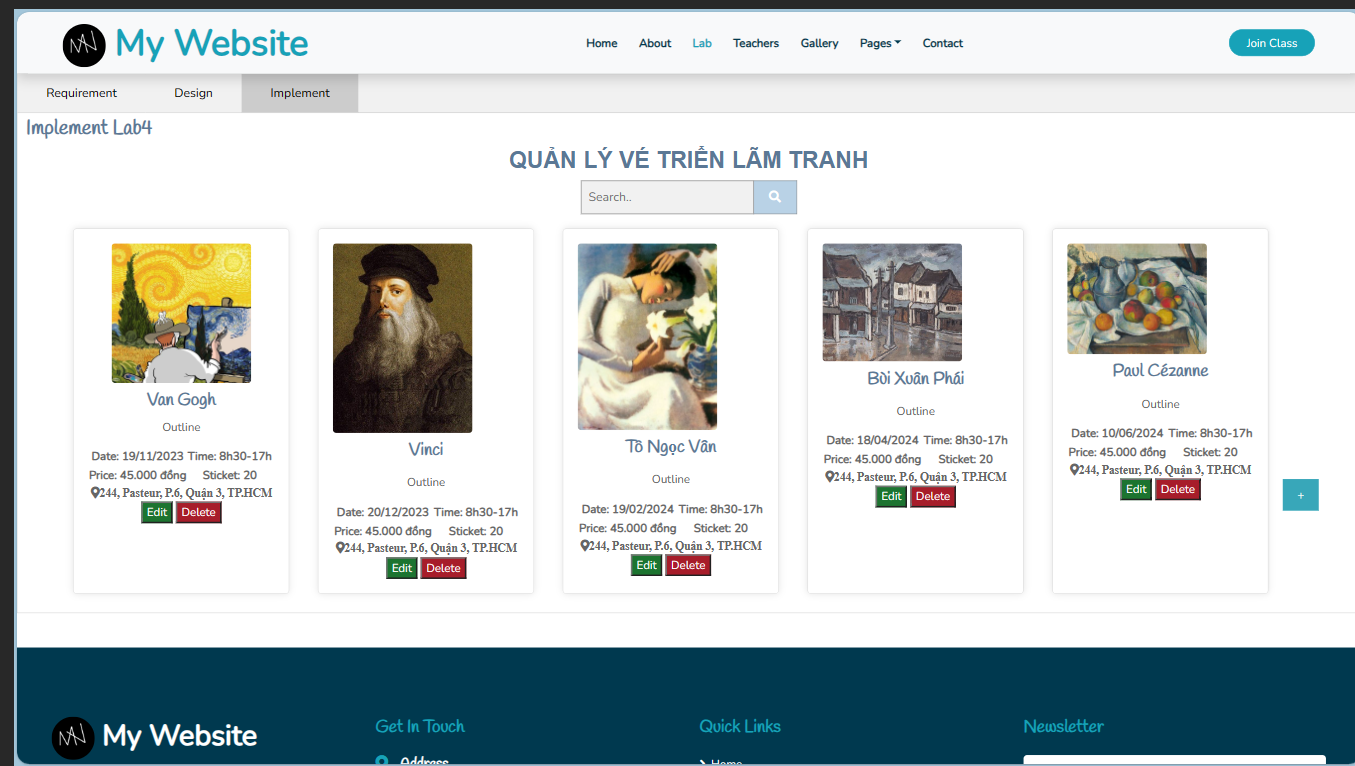
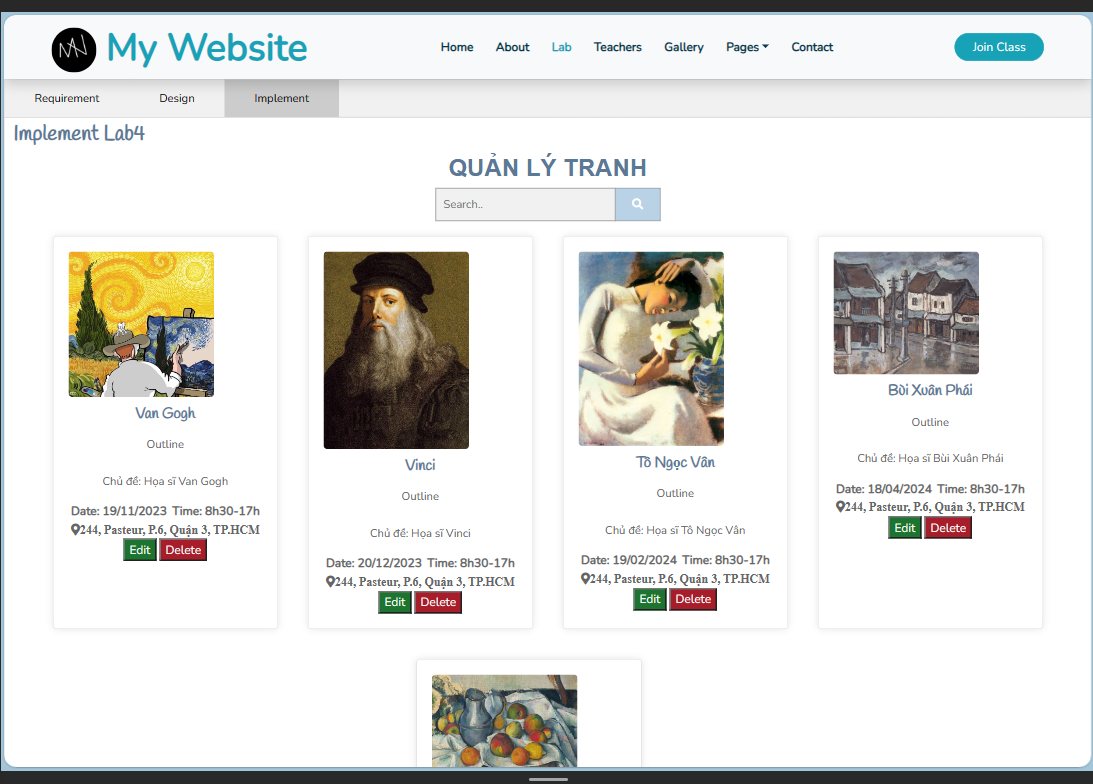
up

diff --git a/lab.html b/lab.html
@@ -78,15 +78,49 @@
                 cho đối tượng đó.
                 Ví dụ, làm chức năng Quản lý Sinh viên, bao gôm tính năng thêm, sửa, xóa, tìm kiếm.
                 Chú ý: Các thành viên trong lớp, trong nhóm không được chọn các đối tượng giống nhau. </p>
-                <h5>Đối tượng: Vé triển lãm Tranh</h5>
+                <h5>Đối tượng: Tranh</h5>
                 <p>Một số bức tranh sẽ trưng bày</p>
+                             
                 <img src="https://i.pinimg.com/564x/af/74/b1/af74b129b1cea7d53551808de5c917ca.jpg" style="width: 20%; margin-right: 10px;" alt="Card Image">           
                 <img src="https://i.pinimg.com/564x/13/f6/a4/13f6a49e0ccb17ce26673c1035867d7b.jpg" style="width: 20%; margin-right: 30px;" alt="Card Image">
                 <img src="https://i.pinimg.com/564x/88/71/00/88710013ab25587386be9bca083fb612.jpg" style="width: 30%;margin-right: 20px;" alt="Card Image">
                 <img src="https://i.pinimg.com/564x/42/fd/10/42fd1020cd8a12deea1292089c18dc32.jpg" style="width: 20%;margin-right: 40px;" alt="Card Image">
                 <br><br>
-               <a><i class="fa fa-map-marker-alt"></i>244, Pasteur, P.6, Quận 3, TP.HCM</a>
-               <h6>Design Lab4</h6>
+                <div><h5>Sự kiện cuối năm 2023   <i class="fa fa-edit" style="color: #0f6674;"></i></h5>
+                </div>
+                <table style="width: 50%;">
+                  <tr>
+                    <th>Thời gian</th>
+                    <th>Ngày</th>
+                    <th>Họa sĩ</th>
+                  </tr>
+                  <tr>
+                    <td>8h30 AM </td>
+                    <td>19/11/2023</td>
+                    <td>Van Gogh</td>
+                  </tr>
+                  <tr>
+                    <td>8h30 AM</td>
+                    <td>20/12/2023</td>
+                    <td>Vinci</td>
+                  </tr>
+                </table><br><br>
+               <a><h6>Design Lab4</h6>
+                <p></p>
+                <i class="fa fa-map-marker-alt"></i>244, Pasteur, P.6, Quận 3, TP.HCM
+                <br>
+                </a>
+            
+               <div class="d-flex justify-content-start mt-4">
+                <a class="btn btn-outline-primary rounded-circle text-center mr-2 px-0"
+                    style="width: 38px; height: 38px;" href="#"><i class="fab fa-twitter"></i></a>
+                <a class="btn btn-outline-primary rounded-circle text-center mr-2 px-0"
+                    style="width: 38px; height: 38px;" href="#"><i class="fab fa-facebook-f"></i></a>
+                <a class="btn btn-outline-primary rounded-circle text-center mr-2 px-0"
+                    style="width: 38px; height: 38px;" href="#"><i class="fab fa-linkedin-in"></i></a>
+                <a class="btn btn-outline-primary rounded-circle text-center mr-2 px-0"
+                    style="width: 38px; height: 38px;" href="#"><i class="fab fa-instagram"></i></a>
+            </div>
         </div>
         
         <div id="Des" class="tabcontent">
@@ -116,7 +150,7 @@
 
         <div id="Im" class="tabcontent">
             <h3>Implement Lab4</h3>
-            <h2 style="text-align: center; font-family: arial">QUẢN LÝ VÉ TRIỂN LÃM TRANH </h2>
+            <h2 style="text-align: center; font-family: arial">QUẢN LÝ TRANH </h2>
             <form class="example" action="/action_page.php" style="margin:auto;max-width:300px">
                 <input type="text" placeholder="Search.." name="search2">
                 <button type="submit"><i class="fa fa-search"></i></button>
@@ -132,8 +166,7 @@
                             <th>Time: 8h30-17h</th>
                         </tr>
                         <tr>
-                            <th>Price: 45.000 đồng</th>
-                            <th>Sticket: 20</th>
+                            <p>Chủ đề: Họa sĩ Van Gogh</p>
                         </tr>
                     </table>
                     <a><i class="fa fa-map-marker-alt">244, Pasteur, P.6, Quận 3, TP.HCM</i></a>
@@ -156,8 +189,8 @@
                                     <option value="9h-17h">9h00 AM-17h00 PM</option>
                                     <option value="9h30-17h">9h30 AM-17h00 PM</option>
                                   </select><br>
-                                <label for="lname">Sticket:</label>
-                                <input type="text" id="lname"value="2" name="sticket"><br>
+                                <label for="lname">Họa sĩ</label>
+                                <input type="text" id="lname"value="Van Gogh" name="sticket"><br>
                                 <button type="button" onclick="document.getElementById('id01').style.display='none'" class="cancelbtn">Save</button>
                               </form>
                             </div>
@@ -177,8 +210,7 @@
                             <th>Time: 8h30-17h</th>
                         </tr>
                         <tr>
-                            <th>Price: 45.000 đồng</th>
-                            <th>Sticket: 20</th>
+                            <p>Chủ đề: Họa sĩ Vinci</p>
                         </tr>
                     </table>
                     <a><i class="fa fa-map-marker-alt">244, Pasteur, P.6, Quận 3, TP.HCM</i></a>
@@ -201,8 +233,8 @@
                                     <option value="9h-17h">9h00 AM-17h00 PM</option>
                                     <option value="9h30-17h">9h30 AM-17h00 PM</option>
                                   </select><br>
-                                <label for="lname">Sticket:</label>
-                                <input type="text" id="lname"value="2" name="sticket"><br>
+                                <label for="lname">Họa sĩ</label>
+                                <input type="text" id="lname"value="Vinci" name="sticket"><br>
                                 <button type="button" onclick="document.getElementById('id02').style.display='none'" class="cancelbtn">Save</button>
                               </form>
                             </div>
@@ -221,8 +253,7 @@
                             <th>Time: 8h30-17h</th>
                         </tr>
                         <tr>
-                            <th>Price: 45.000 đồng</th>
-                            <th>Sticket: 20</th>
+                            <p>Chủ đề: Họa sĩ Tô Ngọc Vân</p>
                         </tr>
                     </table>
                     <a><i class="fa fa-map-marker-alt">244, Pasteur, P.6, Quận 3, TP.HCM</i></a>
@@ -245,8 +276,8 @@
                                     <option value="9h-17h">9h00 AM-17h00 PM</option>
                                     <option value="9h30-17h">9h30 AM-17h00 PM</option>
                                   </select><br>
-                                <label for="lname">Sticket:</label>
-                                <input type="text" id="lname"value="2" name="sticket"><br>
+                                <label for="lname">Họa sĩ</label>
+                                <input type="text" id="lname"value="Tô Ngọc Vân" name="sticket"><br>
                                 <button type="button" onclick="document.getElementById('id03').style.display='none'" class="cancelbtn">Save</button>
                               </form>
                             </div>
@@ -265,8 +296,7 @@
                             <th>Time: 8h30-17h</th>
                         </tr>
                         <tr>
-                            <th>Price: 45.000 đồng</th>
-                            <th>Sticket: 20</th>
+                            <p>Chủ đề: Họa sĩ Bùi Xuân Phái</p>
                         </tr>
                     </table>
                     <a><i class="fa fa-map-marker-alt">244, Pasteur, P.6, Quận 3, TP.HCM</i></a>
@@ -289,8 +319,8 @@
                                     <option value="9h-17h">9h00 AM-17h00 PM</option>
                                     <option value="9h30-17h">9h30 AM-17h00 PM</option>
                                   </select><br>
-                                <label for="lname">Sticket:</label>
-                                <input type="text" id="lname"value="2" name="sticket"><br>
+                                <label for="lname">Họa sĩ</label>
+                                <input type="text" id="lname"value="Bùi Xuân Phái" name="sticket"><br>
                                 <button type="button" onclick="document.getElementById('id04').style.display='none'" class="cancelbtn">Save</button>
                               </form>
                             </div>
@@ -309,8 +339,7 @@
                             <th>Time: 8h30-17h</th>
                         </tr>
                         <tr>
-                            <th>Price: 45.000 đồng</th>
-                            <th>Sticket: 20</th>
+                            <p>Chủ đề: Họa sĩ Paul Cézanne</p>
                         </tr>
                     </table>
                     <a><i class="fa fa-map-marker-alt">244, Pasteur, P.6, Quận 3, TP.HCM</i></a>
@@ -333,8 +362,8 @@
                                     <option value="9h-17h">9h00 AM-17h00 PM</option>
                                     <option value="9h30-17h">9h30 AM-17h00 PM</option>
                                   </select><br>
-                                <label for="lname">Sticket:</label>
-                                <input type="text" id="lname"value="2" name="sticket"><br>
+                                <label for="lname">Họa sĩ</label>
+                                <input type="text" id="lname"value="Paul Cézanne" name="sticket"><br>
                                 <button type="button" onclick="document.getElementById('id05').style.display='none'" class="cancelbtn">Save</button>
                               </form>
                             </div>
@@ -362,8 +391,8 @@
                                     <option value="9h-17h">9h00 AM-17h00 PM</option>
                                     <option value="9h30-17h">9h30 AM-17h00 PM</option>
                                   </select><br>
-                                <label for="lname">Sticket:</label>
-                                <input type="text" id="lname"value="2" name="sticket"><br>
+                                <label for="lname">Họa sĩ</label>
+                                <input type="text" id="lname"value="Vinci" name="sticket"><br>
                                 <button type="button" onclick="document.getElementById('id06').style.display='none'" class="cancelbtn">Add</button>
                               </form>
                             </div>

diff --git a/css/style.css b/css/style.css
@@ -253,7 +253,6 @@ form.example::after {
   font-size: 15px;
 }
 
-
 .b1{
   background-color: #1c7430;
   color: white;
